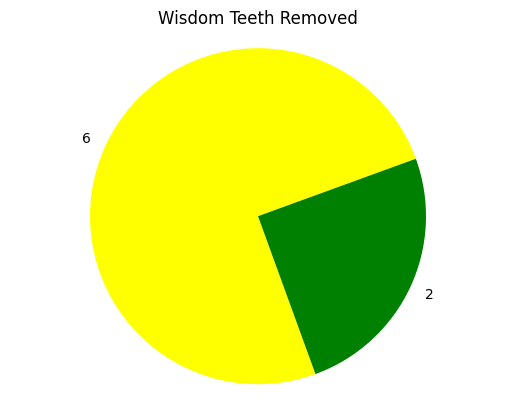
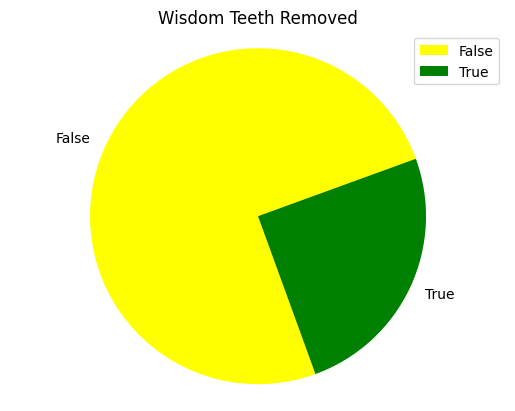
Made a scatter thing. It maybe works.

Changed region(s): [[0.8078, 0.0876, 0.9631, 0.2044], [0.8078, 0.7007, 0.901, 0.7299], [0.0932, 0.3212, 0.1864, 0.3504]]

diff --git a/main.py b/main.py
@@ -16,8 +16,18 @@ colors = ['yellow', 'green']
 df['Wise'] = pd.to_numeric(df['Wise']).fillna(0).astype(bool)
 df['Wisdom Teeth Removed'] = pd.to_numeric(df['Wisdom Teeth Removed']).fillna(0).astype(bool)
 teethe = df['Wisdom Teeth Removed'].value_counts()
-plt.pie(teethe, colors=colors, labels=teethe, startangle=20)
+plt.pie(teethe.values, labels=teethe.index, colors=colors, startangle=20)
 plt.axis('equal')
 
 plt.title('Wisdom Teeth Removed')
+plt.legend()
 plt.savefig('wisepie.png', bbox_inches='tight')
+plt.close()
+
+
+xthing = df['Best Water Swim'] # y values
+ything = df['Flavor'] # x values
+plt.scatter(ything, xthing, cmap='RdPu')
+
+plt.savefig('scatter-flavorvision.png')
+plt.close()
